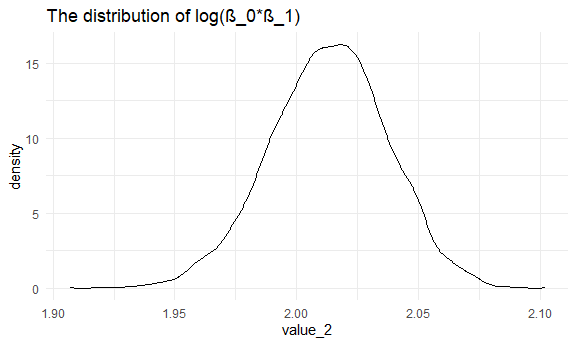
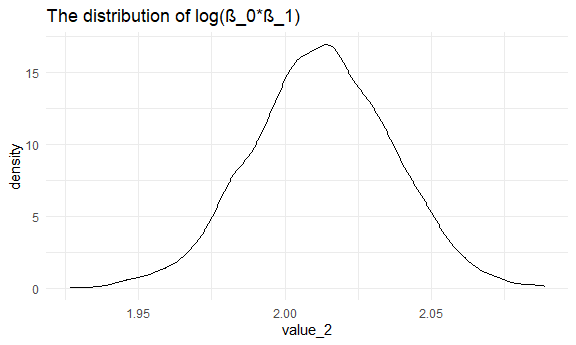
Update

diff --git a/p8105_hw6_xz2981.md b/p8105_hw6_xz2981.md
@@ -183,7 +183,7 @@ birthweight %>%
   geom_point()
 ```
 
-<img src="p8015_hw6_xz2981_files/figure-gfm/unnamed-chunk-4-1.png" width="90%" />
+<img src="p8105_hw6_xz2981_files/figure-gfm/unnamed-chunk-4-1.png" width="90%" />
 
 From the plot of model residuals against fitted values, we can see that
 there is no pattern, which means that our model is appropriate.
@@ -272,7 +272,7 @@ cv_df %>%
   )
 ```
 
-<img src="p8015_hw6_xz2981_files/figure-gfm/unnamed-chunk-7-1.png" width="90%" />
+<img src="p8105_hw6_xz2981_files/figure-gfm/unnamed-chunk-7-1.png" width="90%" />
 
 Based on the above figure, we can know that Model 2 is better.
 
@@ -341,10 +341,10 @@ value_1_df %>%
   )
 ```
 
-<img src="p8015_hw6_xz2981_files/figure-gfm/unnamed-chunk-10-1.png" width="90%" />
+<img src="p8105_hw6_xz2981_files/figure-gfm/unnamed-chunk-10-1.png" width="90%" />
 
-The mean value of r^2 is 0.9113544. The 95% confidence interval is
-(0.8943808, 0.92723).
+The mean value of r^2 is 0.9114886. The 95% confidence interval is
+(0.8931374, 0.9272644).
 
 The distribution of r^2 is unimodal and approximately symmetric, but
 slightly left-skewed.
@@ -371,10 +371,10 @@ value_2_df %>%
   )
 ```
 
-<img src="p8015_hw6_xz2981_files/figure-gfm/unnamed-chunk-11-1.png" width="90%" />
+<img src="p8105_hw6_xz2981_files/figure-gfm/unnamed-chunk-11-1.png" width="90%" />
 
-The mean value of is 2.0131133. The 95% confidence interval is
-(1.9635709, 2.0590264).
+The mean value of is 2.0126506. The 95% confidence interval is
+(1.9653605, 2.059091).
 
 The distribution of log(β_0∗β_1) is unimodal and approximately
 symmetric.
